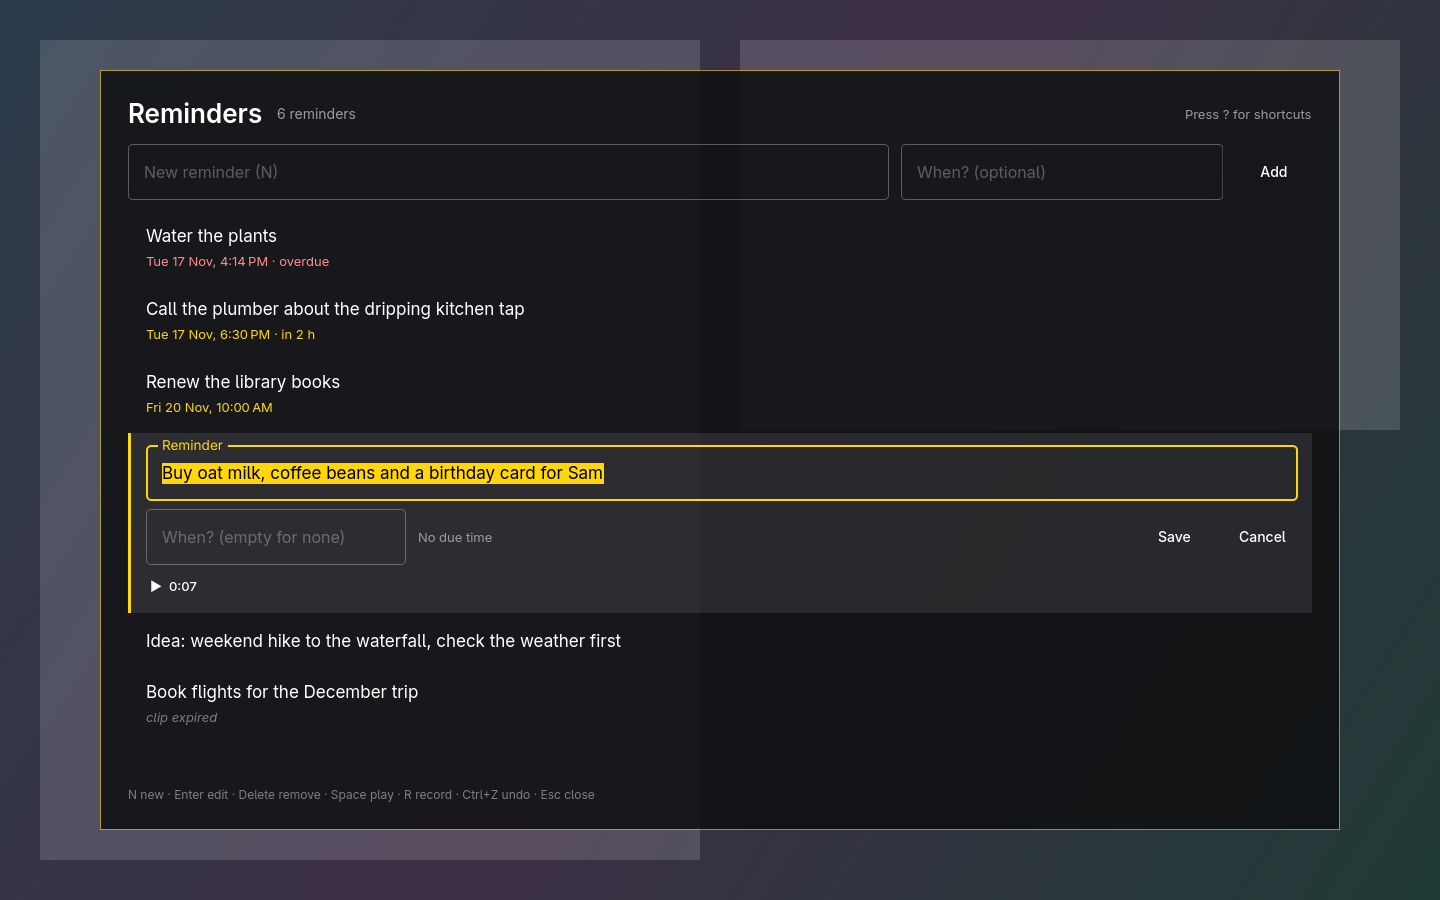
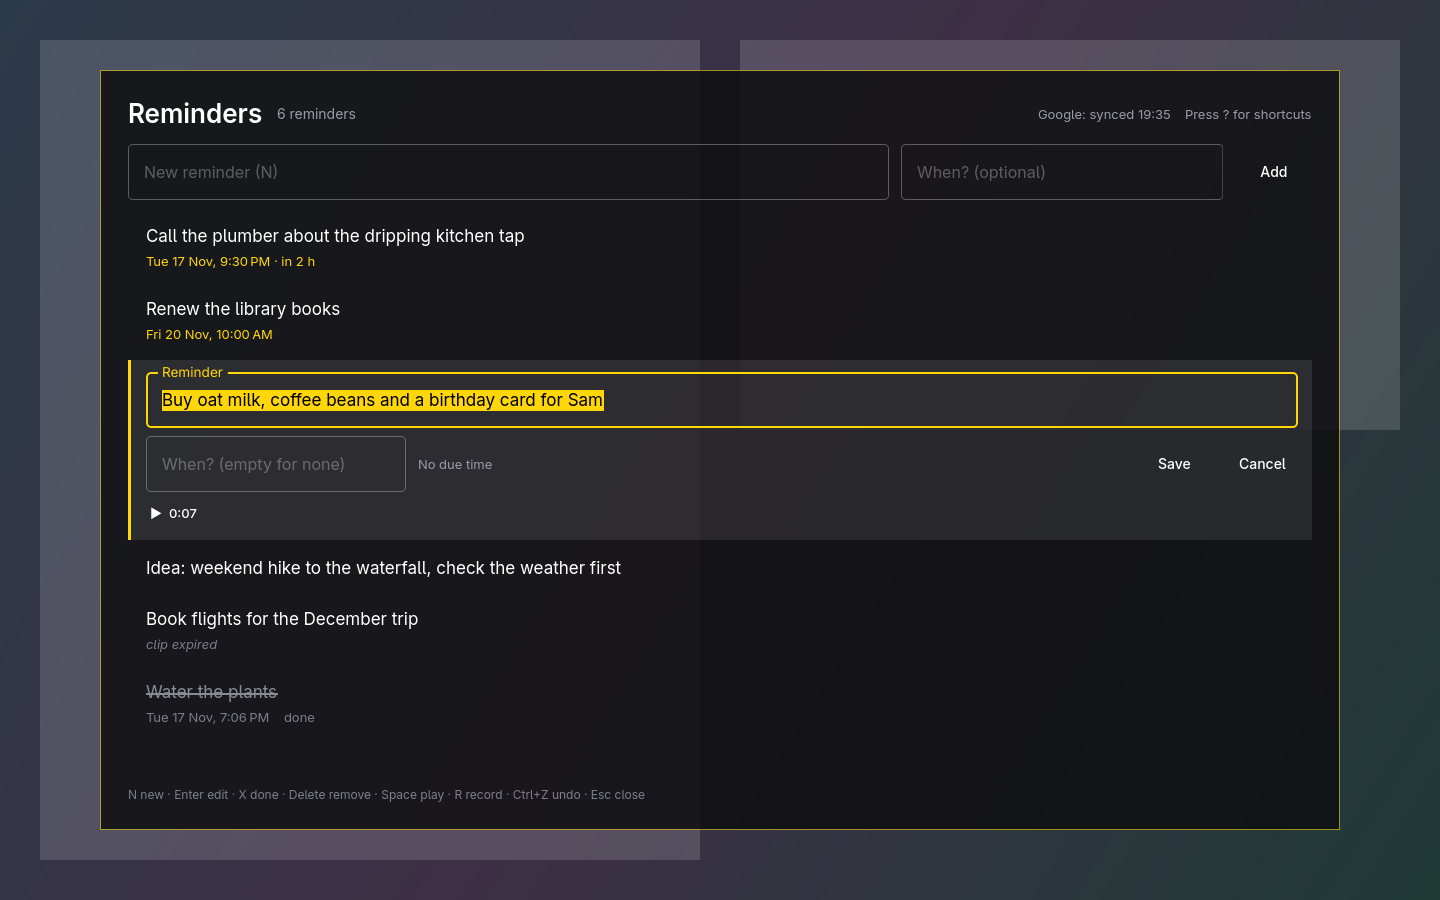
Document Google sync and release 0.2.0-1

diff --git a/README.md b/README.md
@@ -11,7 +11,10 @@ A see-through reminder list for [Omarchy](https://omarchy.org), on one key:
 
 Reminders can have a due time. When one is due you get a desktop
 notification, also after a reboot (an overdue reminder notifies once when the
-daemon starts). Everything is stored on your machine.
+daemon starts). Everything is stored on your machine; if you want, the text
+and times can also sync with your Google account so they show on your phone
+(see [Google sync](#google-sync-iphone-and-other-phones)). Voice clips never
+leave the computer.
 
 ![Recording badge](docs/recording.png)
 
@@ -32,6 +35,7 @@ In the overlay:
 | `N` | New reminder (Tab to its time, Enter to add) |
 | `↑` `↓` / `K` `J` | Move the selection |
 | `Enter` / `E` | Edit the selected reminder (Enter saves, Shift+Enter is a new line, Esc cancels) |
+| `X` | Mark it done (struck through, sorted last), or not done again |
 | `Delete` / `D` | Remove it (asks first: press again or Enter) |
 | `Space` / `P` | Play or pause its voice clip |
 | `R` | Start or stop a voice memo from the overlay |
@@ -70,7 +74,13 @@ Omni Reminder never changes Superwhisper's settings.
 ```text
 ~/.local/share/omni-reminder/
 ├── reminders.json   saved atomically (written beside, then renamed)
-└── clips/           the voice clips
+├── clips/           the voice clips
+├── sync.json        Google sync bookkeeping: ids and what both sides last agreed on
+└── sync-status.json the last sync result (for the overlay and `sync status`)
+
+~/.config/omni-reminder/
+├── google-client.json   your own OAuth client (you download it, see below)
+└── google-token.json    the sign-in, only if no desktop keyring is available (mode 0600)
 ```
 
 ## Command line
@@ -85,7 +95,122 @@ omni-reminder add "Call the dentist" --due 2026-12-01T14:00
 omni-reminder remove 7                   # also deletes its clip
 omni-reminder key-down | key-up          # what the global shortcut runs
 omni-reminder skill install              # a short skill so coding agents can use it
+omni-reminder sync login                 # connect a Google account (opens the browser)
+omni-reminder sync status [--json]       # last sync, errors, changes waiting
+omni-reminder sync now                   # sync right away
+omni-reminder sync logout                # disconnect and forget the sign-in
 ```
+
+## Google sync (iPhone and other phones)
+
+Optional. Once set up, reminders with a due time become events in a calendar
+called **Omni Reminder**, each with a pop-up alert at the due time; reminders
+without a time (and finished ones) become tasks in a task list called **Omni
+Reminder**. It works both ways: add, edit, tick off or delete on the phone and
+it shows up here within a few minutes, and the other way round.
+
+- **Only the reminder text, its due time, and whether it is done are sent.**
+  No audio, no clip names, no other details of a voice memo. A reminder that
+  comes from the phone has no clip.
+- The app only touches the calendar and the task list it created. It asks
+  Google for the narrowest permissions that allow that:
+  `calendar.app.created` (calendars this app creates, and their events; it
+  cannot even see your other calendars) and `tasks` (Google has no narrower
+  Tasks permission).
+- When both sides changed the same reminder between two syncs, the newer edit
+  wins. A change here beats a deletion on the phone (the reminder goes back up);
+  a deletion on the phone of an unchanged reminder deletes it here too.
+- Giving a reminder a time moves it from Tasks to Calendar; removing the time,
+  or ticking it off, moves it back. A task given a date on the phone (Tasks has
+  dates, not times) becomes a reminder at 09:00 that day and moves to the
+  calendar, so it gets an alert.
+- The daemon syncs about 3 seconds after a change, every 3 minutes, and on
+  `omni-reminder sync now`. Without network nothing is lost or blocked: changes
+  wait, and it retries after 30 s, 1, 2, 4, 8, then every 15 minutes. The
+  overlay header shows the state ("Google: synced 14:05", "offline, 2 changes
+  waiting", or in red when you need to sign in again).
+
+### One-time setup: your own Google OAuth client
+
+Google requires every app that reads a calendar to be registered. You register
+your own copy (free, about 10 minutes); nobody else gets access.
+
+1. Open the [Google Cloud console](https://console.cloud.google.com/), and
+   create a new project (project picker at the top, **New project**), for
+   example "omni-reminder".
+2. Enable both APIs for that project: **APIs & Services > Library**, search for
+   **Google Calendar API**, **Enable**; then the same for **Google Tasks API**.
+3. Set up the consent screen: **Menu > Google Auth platform > Branding**,
+   **Get started**. App name "Omni Reminder", your e-mail as support e-mail;
+   **Audience: External**; your e-mail as contact; accept the policy, **Create**.
+4. Add yourself as a test user: **Google Auth platform > Audience > Test users >
+   Add users**, enter the Gmail address whose calendar you want to use, **Save**.
+5. Create the client: **Google Auth platform > Clients > Create client**,
+   Application type **Desktop app**, any name, **Create**.
+6. In the dialog that follows (or from the client's row in the list), use
+   **Download JSON** and save it as `~/.config/omni-reminder/google-client.json`:
+
+   ```bash
+   mkdir -p ~/.config/omni-reminder
+   mv ~/Downloads/client_secret_*.json ~/.config/omni-reminder/google-client.json
+   chmod 600 ~/.config/omni-reminder/google-client.json
+   ```
+7. Sign in: `omni-reminder sync login`. Your browser opens Google's page. Pick
+   the account, click through the "Google hasn't verified this app" screen
+   (**Advanced > Go to Omni Reminder (unsafe)**: it is your own app), leave
+   **both** permission boxes ticked, **Continue**. The tab then says "Omni
+   Reminder is signed in", and the first sync starts.
+
+Check it with `omni-reminder sync status`.
+
+#### Important: the weekly sign-in of "Testing" apps
+
+While the app's publishing status is **Testing** (the default), Google lets
+every sign-in expire **7 days** after you gave consent, and the refresh token
+with it ([Google: OAuth 2.0, refresh token expiration](https://developers.google.com/identity/protocols/oauth2#expiration);
+[Google Cloud help: manage app audience](https://support.google.com/cloud/answer/15549945)).
+Omni Reminder then shows "not signed in" in red and you would have to run
+`omni-reminder sync login` every week.
+
+To avoid that, set the status to **In production**: **Google Auth platform >
+Audience > Publish app**, confirm. For a personal app like this you do not
+need to submit it for verification. The consequences:
+
+- the "Google hasn't verified this app" warning stays on the sign-in page
+  (click through it as in step 7);
+- an unverified app can be used by at most 100 accounts in total, which does
+  not matter for one person;
+- sign-ins no longer expire after 7 days; they last until you sign out,
+  revoke the access at <https://myaccount.google.com/permissions>, or do not use
+  it for six months.
+
+Run `omni-reminder sync login` once more after switching, to get a sign-in
+that does not expire. (Calendar permissions are usually classed by Google as
+"sensitive"; the label of each is shown under **Google Auth platform > Data
+Access**. Sensitive permissions are why the warning screen appears.)
+
+### On the iPhone
+
+- **Calendar (timed reminders):** Settings > Apps > Calendar > Calendar
+  Accounts > Add Account > Google (on older iOS: Settings > Calendar >
+  Accounts), sign in with the same Google account, and keep **Calendars**
+  switched on. Make sure the **Omni Reminder** calendar is ticked in the
+  Calendar app's **Calendars** list. The pop-up alert at the due time comes from
+  the event; iOS shows it like any calendar alert.
+- **Tasks (reminders without a time):** install **Google Tasks** from the App
+  Store and sign in with the same account; the list is called **Omni
+  Reminder**. (The built-in Reminders app does not show Google Tasks.)
+
+### Where the sign-in is kept
+
+In the desktop keyring (GNOME Keyring through the Secret Service, via
+`secret-tool`), which Omarchy runs: there it is encrypted on disk and unlocked
+with your login. If no keyring answers, it falls back to
+`~/.config/omni-reminder/google-token.json` with permissions 0600 (only you can
+read it). Only the refresh token is stored; access tokens live in memory for
+an hour. `omni-reminder sync logout` revokes it at Google and deletes it here.
+Neither the client file nor the sign-in is ever inside this repository
+(`.gitignore` blocks both).
 
 ## How the shortcut works
 
@@ -140,7 +265,8 @@ Check with `hyprctl reload && hyprctl configerrors`.
 
 ```bash
 bin/build    # qmake6 + make into build/omni-reminder
-bin/test     # Qt Test, offscreen: store, retention, tap/hold, due times, transcription
+bin/test     # Qt Test, offscreen: store, retention, tap/hold, due times, transcription,
+             # and Google sync against a fake Google server (no real account needed)
 ```
 
 C++ and Qt Quick, the way Omarchy's own apps are built. It follows the
